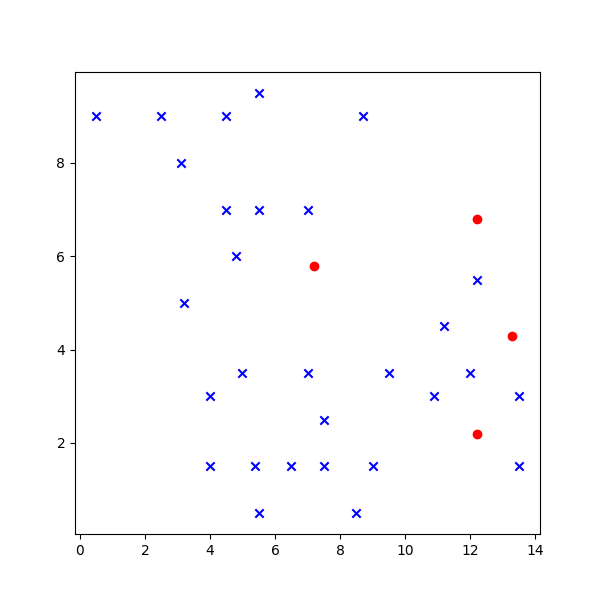
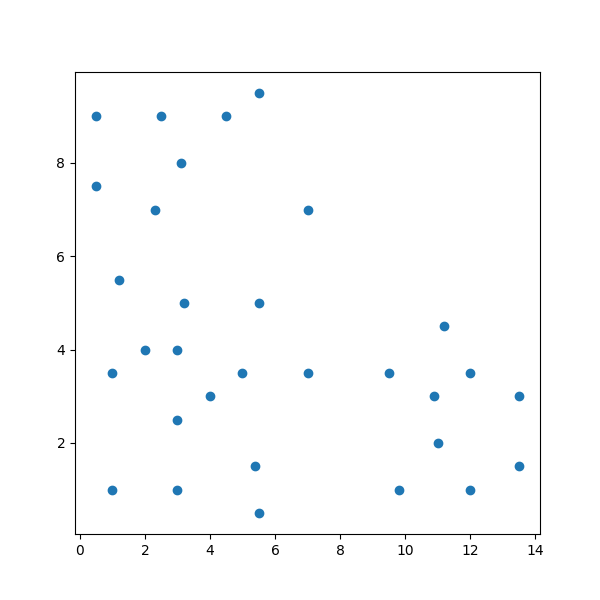
lab3: rbf classic version

diff --git a/lab3/pum3-svm/main.py b/lab3/pum3-svm/main.py
@@ -1,5 +1,6 @@
 from matplotlib.colors import ListedColormap
 from sklearn.model_selection import train_test_split
+from sklearn.preprocessing import StandardScaler
 
 from dataset_preparing import get_dataset
 from sklearn import svm
@@ -10,10 +11,11 @@ import matplotlib.pyplot as plt
 def plot_decision_function(classifier, title):
     h = 0.01
 
-    X_train, X_test, y_train, y_test = train_test_split(x, y)
+    X = StandardScaler().fit_transform(x)
+    X_train, X_test, y_train, y_test = train_test_split(X, y)
 
-    x_min, x_max = x[:, 0].min() - 0.5, x[:, 0].max() + 0.5
-    y_min, y_max = x[:, 1].min() - 0.5, x[:, 1].max() + 0.5
+    x_min, x_max = X[:, 0].min() - 0.5, X[:, 0].max() + 0.5
+    y_min, y_max = X[:, 1].min() - 0.5, X[:, 1].max() + 0.5
     xx, yy = np.meshgrid(np.arange(x_min, x_max, h), np.arange(y_min, y_max, h))
 
     # just plot the dataset first
@@ -68,30 +70,54 @@ def plot_decision_function(classifier, title):
 
 
 def plot_support_vectors(vectors, filename):
-    set1, set2 = [], []
-    for v in vectors:
-        if v in np.array(dataset.set1):
-            set1.append(v)
-        elif v in np.array(dataset.set2):
-            set2.append(v)
-    x1, y1 = np.array(set1)[:, 0], np.array(set1)[:, 1]
-    x2, y2 = np.array(set2)[:, 0], np.array(set2)[:, 1]
+    x1, y1 = vectors[:, 0], vectors[:, 1]
 
     plt.figure(figsize=(6, 6))
-    plt.scatter(x1, y1, marker="x", color="blue")
-    plt.scatter(x2, y2, marker="o", color="red")
+    plt.scatter(x1, y1)
+    # plt.scatter(x2, y2, marker="o", color="red")
     plt.savefig(f"./outputs/{filename}.png")
     plt.clf()
 
 
 def get_support_vectors(clf, filename):
-    support_vectors = clf.support_vectors_
-    plot_support_vectors(support_vectors, filename)
+    support_indices = clf.support_
+    vectors = []
+    for i in support_indices:
+        vectors.append(x[i])
+    plot_support_vectors(np.array(vectors), filename)
 
 
-def linear_svm():
+def linear_svm(C_range):
     # with a strong emphasis on the samples on the "right" side
-    linear = svm.SVC(kernel="linear", gamma=0.1)
+    # "C" is the penalty parameter - smaller C creates small margin and larger C creates larger margin
+    C_value = 0.01
+    while C_value <= C_range:
+        linear = svm.SVC(kernel="linear", C=C_value)
+        plot_decision_function(linear, f"C={C_value}")
+        C_value *= 10
+
+
+# svm custom kernel - the product of the first component of both vectors, omitting the second component
+def custom_kernel():
+    def kernel_fun(X, Y):  # todo: o to chodziło??
+        first_X = np.array([[i[0] for i in X]]).T
+        first_Y = np.array([[i[0] for i in Y]])
+
+        return np.dot(first_X, first_Y)
+
+    custom = svm.SVC(kernel=kernel_fun)
+    plot_decision_function(custom, "custom kernel")
+
+
+# classic RBF (Radial Basis Function) kernel
+def rbf_kernel_classic():
+    # we can use "rbf" kernel from library which uses the gamma parameter instead of the sigma from the given formula
+    # gamma = 1/(2*sigma^2)
+    # so, if we want to use sigma = 0.5, 0.7, 1, 2 we have to use gamma = 1/8, 1/2, 1, 2 instead
+    gamma_values = [0.125, 0.5, 1, 2]
+    for g in gamma_values:
+        gamma = svm.SVC(kernel='rbf', gamma=g)
+        plot_decision_function(gamma, f"Gamma={g}")
 
 
 if __name__ == "__main__":
@@ -105,11 +131,15 @@ if __name__ == "__main__":
     svc = svm.SVC()
     svc_linear = svm.SVC(kernel="linear")
 
+    print("decision boundary for classic svm...")
     plot_decision_function(svc, "Decision_boundary")
+    print("Done. Linear svm...")
     plot_decision_function(svc_linear, "Decision_boundary_linear")
 
     # get support vectors
+    print("Done. Support vectors for classic version...")
     get_support_vectors(svc, "sv.png")
+    print("Done. Support vectors for linear version...")
     get_support_vectors(svc_linear, "sv_linear.png")
 
     # margin width between classes
@@ -118,4 +148,13 @@ if __name__ == "__main__":
 
     # step 2
     # linear svm version
+    print("Linear versions for range 0.01 - 10000...")
+    linear_svm(10_000)  # todo: wykresy są do kitu
 
+    # custom kernel version
+    print("Custom kernel...")
+    custom_kernel()
+
+    # RBF kernel
+    print("RBF kernel...")
+    rbf_kernel_classic()

diff --git a/lab3/pum3-svm/test.py b/lab3/pum3-svm/test.py
@@ -1,17 +1,10 @@
 import numpy as np
 
 if __name__ == '__main__':
-    np.random.seed(0)
-    X = np.r_[np.random.randn(10, 2) + [1, 1], np.random.randn(10, 2)]
-    y = [1] * 10 + [-1] * 10
+    x = np.array([[1, 4, 8, 7]])
+    y = np.array([[0, 2, 3, 3]]).T
 
-    print(X, y)
-
-    sample_weight_last_ten = abs(np.random.randn(len(X)))
-    sample_weight_constant = np.ones(len(X))
-    # and bigger weights to some outliers
-    sample_weight_last_ten[15:] *= 5
-    sample_weight_last_ten[9] *= 15
+    print(np.multiply(x, y))
+    print(x * y)
 
 
-    print(sample_weight_constant, sample_weight_last_ten)
